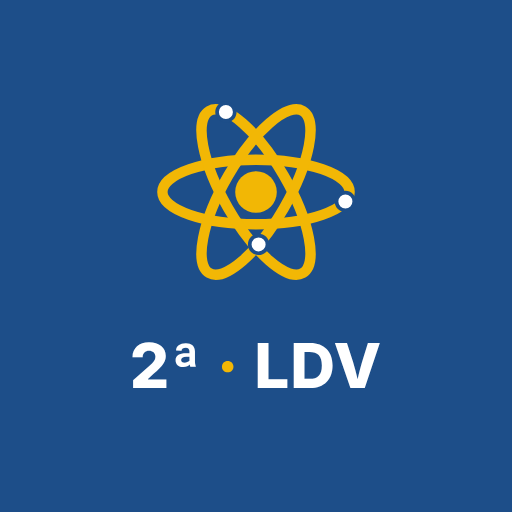
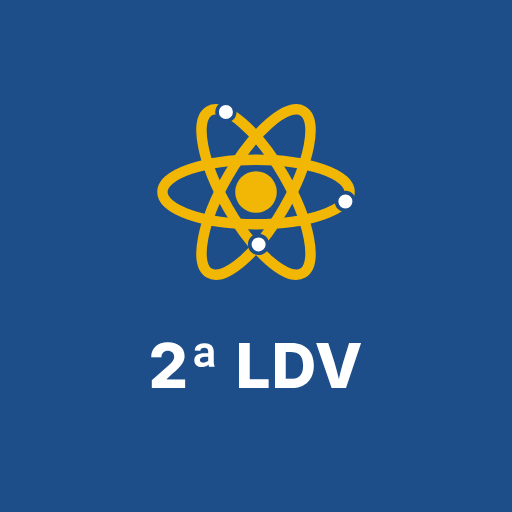
Ícone: tira o ponto entre "2ª" e "LDV"
Claude-Session: https://claude.ai/code/session_012uLHvyL3UWvJNCiAWi6vCb

Changed region(s): [[0.25, 0.6562, 0.75, 0.7812]]

diff --git a/sw.js b/sw.js
@@ -1,6 +1,6 @@
 /* Funciona sem internet: guarda o app no celular.
    Ao publicar uma versão nova, mude o número em VERSAO. */
-const VERSAO = 'fisica2ldv-v24';
+const VERSAO = 'fisica2ldv-v25';
 const BASE = ['./', './index.html', './manifest.webmanifest', './icons/icon-192.png', './icons/icon-512.png', './icons/maskable-512.png', './icons/apple-touch-icon.png', './icons/favicon.png'];
 
 self.addEventListener('install', e => {
